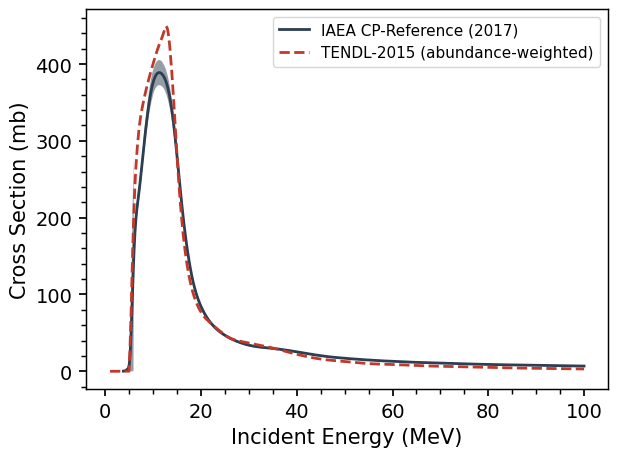
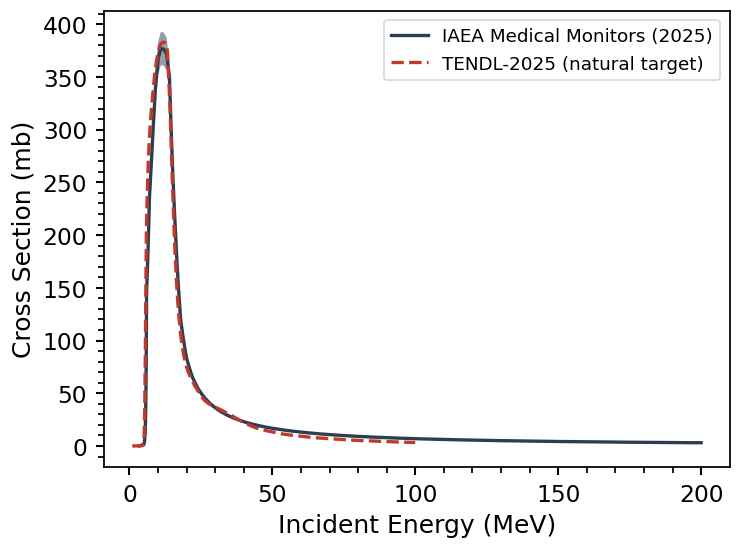
Documentation for the v2 data generation: a new Data Sources page recording per-database provenance, versions and acknowledgements (ENSDF/LiveChart, NUBASE2020/AME2020, ENDF/B-VIII.1, TENDL-2025 CC BY 4.0, IRDFF-II, IAEA monitors, paceENSDF); library names and versions updated across the methods tab
The authors acknowledge the assistance of Claude, an AI model provided by Anthropic, in the writing of this software.

Changed region(s): [[0.0, 0.0, 1.0, 0.9803], [0.3387, 0.7046, 0.3695, 0.7352]]

diff --git a/docs/source/data_sources.rst b/docs/source/data_sources.rst
@@ -1,0 +1,72 @@
+.. _data_sources:
+
+============
+Data Sources
+============
+
+Curie's nuclear data ship as pre-built databases, fetched on first use
+from versioned data releases and verified against published SHA256
+checksums.  Each database carries a generation stamp; this page records
+what the current generation (v2, built July 2026) contains and where
+every number comes from.  Connecting to data from an earlier generation
+logs a warning naming the ``ci.download(...)`` update command.
+
+.. list-table::
+   :header-rows: 1
+   :widths: 18 44 38
+
+   * - Database
+     - Contents and source
+     - Version
+   * - ``decay``
+     - Nuclear structure and decay data: level energies, half-lives,
+       branching ratios, and radiation (gamma, X-ray, electron, alpha,
+       beta) energies and intensities from ENSDF, retrieved through the
+       IAEA LiveChart of Nuclides interface; atomic masses and
+       half-life closures from AME2020/NUBASE2020; fission yields
+       (independent and cumulative) from the ENDF/B-VIII.1 MF8
+       sublibraries; gamma–gamma coincidence probabilities from
+       paceENSDF.
+     - ENSDF via LiveChart (mirrored 2026-07); NUBASE2020/AME2020;
+       ENDF/B-VIII.1
+   * - ``endf``
+     - Exclusive-channel neutron cross sections, reconstructed from the
+       ENDF/B-VIII.1 neutron sublibrary (resonance reconstruction with
+       NJOY2016 RECONR at a 0.5 % linearization tolerance).
+     - ENDF/B-VIII.1 (2024)
+   * - ``tendl``, ``tendl_n/p/d/a``
+     - TENDL exclusive-channel (neutron) and residual-product (n, p, d,
+       alpha) cross sections, from the TALYS-computed TENDL-2025 tables.
+       Targets are curated to the naturally occurring nuclides and
+       states with half-lives of at least one year; natural-element
+       targets are abundance-weighted sums of the isotopic tables.  The
+       proton library's Nb targets are carried from TENDL-2023 ENDF-6
+       files (no public host serves TENDL-2025 proton Nb).
+     - TENDL-2025 (TALYS-2.1), CC BY 4.0, from
+       https://tendl.imperial.ac.uk
+   * - ``irdff``
+     - The IRDFF-II neutron metrology (dosimetry) standard, with
+       uncertainties, from the IAEA's tabulated distribution.
+     - IRDFF-II (2020)
+   * - ``iaea``
+     - IAEA recommended charged-particle monitor reactions and medical
+       isotope production cross sections, with uncertainties.
+     - IAEA re-evaluation, site as of 2026-07
+   * - ``ziegler``
+     - Charged-particle stopping-power parameters (Andersen–Ziegler
+       formulation), element densities, and NIST XCOM photon
+       mass-attenuation coefficients.
+     - carried over unchanged between data generations
+
+Acknowledgements and citations
+------------------------------
+
+Curie's decay data are extracted from ENSDF through the IAEA Nuclear
+Data Section's *LiveChart of Nuclides* API; the fission-yield and
+neutron cross-section data derive from ENDF/B-VIII.1 (National Nuclear
+Data Center, Brookhaven National Laboratory); TENDL-2025 is distributed
+under CC BY 4.0 by the TALYS team; IRDFF-II and the medical monitor
+evaluations are published by the IAEA Nuclear Data Section; coincidence
+data derive from paceENSDF.  Users publishing results that rest on a
+particular evaluation should cite that evaluation directly — the
+references collected in :ref:`methods` — in addition to Curie itself.

diff --git a/docs/source/methods.rst b/docs/source/methods.rst
@@ -501,16 +501,17 @@ The libraries
 
 Curie distributes cross sections from four evaluated libraries:
 
-================  ==========================  =========  ==============  =============
-Name              Evaluation                  Particles  Organization    Uncertainties
-================  ==========================  =========  ==============  =============
-``endf``          ENDF/B-VII.1 [ENDF]_        n          exclusive       no
-``tendl``         TENDL-2015 [TENDL]_         n          exclusive       no
-``tendl_n/p/d``   TENDL-2015 [TENDL]_         n, p, d    residual        no
-``irdff``         IRDFF-II [IRDFF]_           n          exclusive       yes
-``iaea``          IAEA CP-Reference           n, p, d,   residual        yes
-                  (2017) [IAEA]_              a, h, g
-================  ==========================  =========  ==============  =============
+=================  ==========================  =========  ==============  =============
+Name               Evaluation                  Particles  Organization    Uncertainties
+=================  ==========================  =========  ==============  =============
+``endf``           ENDF/B-VIII.1 [ENDF]_       n          exclusive       no
+``tendl``          TENDL-2025 [TENDL]_         n          exclusive       no
+``tendl_n/p/d/a``  TENDL-2025 [TENDL]_         n, p, d,   residual        no
+                                               a
+``irdff``          IRDFF-II [IRDFF]_           n          exclusive       yes
+``iaea``           IAEA Medical Monitors       n, p, d,   residual        yes
+                   (2025) [IAEA]_              a, h, g
+=================  ==========================  =========  ==============  =============
 
 An *exclusive* library indexes reactions by their outgoing channel —
 (n,2n), (n,p), (n,inl) (inelastic scattering) — while a
@@ -524,6 +525,12 @@ distinguish the two where both are useful).  IRDFF-II is a dosimetry
 standard: most of its entries are exclusive channels, with a few indexed
 by product.
 
+The TENDL residual-product libraries also carry *natural-element*
+targets (``natFe``, ``natTi``, ...): abundance-weighted sums of the
+isotopic tables, computed when the databases are built from the same
+decay-data generation's abundances.  Elements whose lightest isotopes
+TENDL does not evaluate (H, He, Li, Be) have no natural entry.
+
 Energies are in MeV and cross sections in mb throughout (converted on
 retrieval from any source library that uses eV and barns).  On
 retrieval, energy grids are sorted and exact duplicate points dropped;
@@ -535,13 +542,24 @@ artifact, so there they are removed.
 Interpolation and flux averages
 ~~~~~~~~~~~~~~~~~~~~~~~~~~~~~~~
 
-`Reaction.interpolate()` is piecewise-linear on the evaluated grid, with
-two exceptions: TENDL curves, which are smooth model calculations, are
-interpolated quadratically (from just below the reaction threshold, and
-falling back to linear for very short grids), and negative interpolants
-are clamped to zero.  **Outside the evaluated energy range the
-interpolated cross section is zero** — Curie never extrapolates
-evaluated data.
+`Reaction.interpolate()` selects its scheme per library, through the
+`Reaction.interp_config` parameter ``'interpolation'``.  The
+pointwise-linearized libraries (ENDF — reconstructed to a 0.5 %
+linearization tolerance — IRDFF and IAEA) default to ``'linear'``, the
+convention their tabulated grids are generated for.  The TENDL
+libraries, whose smooth model calculations sit on a coarse energy grid,
+default to ``'pchip-sqrt'``: monotone piecewise-cubic (PCHIP)
+interpolation carried out in :math:`\sqrt{E}`–:math:`\sqrt{\sigma}`
+space.  The monotone construction passes exactly through the evaluated
+points and cannot overshoot or ring between them (a conventional
+quadratic or cubic spline can, badly, across a sharp threshold rise),
+and the square-root energy axis linearizes the
+:math:`\sigma \propto \sqrt{E - E_{thr}}` turn-on just above
+threshold.  Interpolants are clamped non-negative, and below the
+reaction threshold the cross section is zero.  **Outside the evaluated
+energy range the interpolated cross section is zero** — Curie never
+extrapolates evaluated data.  Either scheme can be selected per
+reaction: ``rx.interpolate(E, interpolation='linear')``.
 
 Flux integrals treat the energy points as bin centers, with bin edges at
 the midpoints between them; the first and last points take the full
@@ -688,18 +706,21 @@ and verified against published SHA256 checksums (see
 :ref:`quickinstall`); the large cross-section libraries are fetched in
 per-target pieces.  The reaction libraries are described in
 :ref:`methods_reaction_data`.  The decay data (half-lives, branching
-ratios, emission energies and intensities) are compiled from NuDat 2.0,
-ENDF/B-VII.0 and the nuclear wallet cards; photon attenuation
+ratios, emission energies and intensities) are compiled from ENSDF via
+the IAEA LiveChart interface, with NUBASE2020/AME2020 masses and
+half-life closures and ENDF/B-VIII.1 fission yields (see
+:ref:`data_sources` for full provenance); photon attenuation
 coefficients derive from the NIST XCOM tabulations; charged-particle
 stopping powers use the Andersen–Ziegler formulation.  Gamma-ray
 energies are in keV in the spectroscopy classes, and every half-life is
 in seconds unless a unit argument says otherwise.
 
-.. [ENDF] M.B. Chadwick et al., "ENDF/B-VII.1 Nuclear Data for Science
-   and Technology", *Nucl. Data Sheets* **112** (2011) 2887.
+.. [ENDF] "ENDF/B-VIII.1", National Nuclear Data Center, Brookhaven
+   National Laboratory (2024), https://www.nndc.bnl.gov/endf-b8.1/.
 
 .. [TENDL] A.J. Koning and D. Rochman, "Modern Nuclear Data Evaluation
-   with the TALYS Code System", *Nucl. Data Sheets* **113** (2012) 2841.
+   with the TALYS Code System", *Nucl. Data Sheets* **113** (2012) 2841;
+   TENDL-2025 files from https://tendl.imperial.ac.uk (CC BY 4.0).
 
 .. [IRDFF] A. Trkov et al., "IRDFF-II: A New Neutron Metrology Library",
    *Nucl. Data Sheets* **163** (2020) 1.

diff --git a/docs/source/usersguide/reactions_examples.rst b/docs/source/usersguide/reactions_examples.rst
@@ -36,16 +36,24 @@ For a proton spectrum centered at 20 MeV::
 	>>> eng = np.linspace(10, 30, 50)
 	>>> phi = np.exp(-0.5*((eng - 20)/3.5)**2)
 	>>> print(rx.average(eng, phi, unc=True))
-	(116.4..., 4.8...)
+	(115.2..., 5.2...)
 
 Natural vs. isotopic targets
 ----------------------------
 
-The TENDL-2015 residual-product library also carries this reaction — but
-only for *isotopic* targets; it has no natural-element entries.  A
-natural-target cross section is the abundance-weighted sum over the
-stable isotopes.  ``ci.Element('Ti').abundances`` provides exactly what
-the sum needs: a table of the stable isotopes with their percent
+The TENDL-2025 residual-product libraries carry this reaction for the
+natural target directly — ``natTI(p,x)48V`` works there just as it does
+in the IAEA library.  The natural-element entries are abundance-weighted
+sums of the isotopic tables, computed when the databases are built::
+
+	r_nat = ci.Reaction('natTi(p,x)48Vg', 'tendl_p')
+
+(The explicit ``g`` on the product picks the ground state — leaving it
+off works, but prints the ground-state-assumed warning.)
+
+The weighted sum is also easy to carry out by hand, which shows exactly
+what the natural entry *is*.  ``ci.Element('Ti').abundances`` provides
+the table the sum needs — the stable isotopes with their percent
 abundances (columns ``isotope`` and ``abundance``)::
 
 	el = ci.Element('Ti')
@@ -59,24 +67,22 @@ abundances (columns ``isotope`` and ``abundance``)::
 			continue      # this isotope has no route to 48V
 		xs_nat += 1E-2*row['abundance']*r.interpolate(eng)
 
-(The explicit ``g`` on the product picks the ground state — leaving it
-off works, but prints the ground-state-assumed warning for every
-isotope.)
-
 The ``try``/``except`` is doing real physics: :sup:`46`\ Ti + p has only
 47 nucleons, so it cannot make :sup:`48`\ V at any energy, and TENDL has
-no such entry.  Overlaying the weighted sum on the IAEA evaluation::
+no such entry.  Overlaying the natural-target entry on the IAEA
+evaluation::
 
 	f, ax = rx.plot(return_plot=True, label='library')
-	ax.plot(eng, xs_nat, ls='--', label='TENDL-2015 (abundance-weighted)')
+	ax.plot(eng, r_nat.interpolate(eng), ls='--', label='TENDL-2025 (natural target)')
 	ax.legend()
 
 .. figure:: ../images/ti48v_monitor.png
    :width: 80%
    :align: center
 
-The two agree in shape but differ by ~15% at the peak.  That is typical,
-and it reflects what each library *is*: the IAEA curve is an evaluation
+The two agree in shape, and for this reaction within ~1% at the peak —
+closer than is typical.  The distinction still matters, and it reflects
+what each library *is*: the IAEA curve is an evaluation
 of decades of monitor-foil measurements; the TENDL curve comes from
 nuclear-model (TALYS) calculations, whose strength is covering every
 reaction — including ones never measured — rather than pinpoint accuracy
@@ -115,7 +121,7 @@ Neutron libraries and the 20 MeV cutoff
 ---------------------------------------
 
 The same look-before-you-use advice applies to energy grids.  Most
-ENDF/B-VII.1 neutron evaluations stop at 20 MeV; IRDFF-II extends its
+ENDF/B-VIII.1 neutron evaluations stop at 20 MeV; IRDFF-II extends its
 dosimetry reactions to 60 MeV::
 
 	r1 = ci.Reaction('90ZR(n,2n)', 'irdff')

diff --git a/docs/source/usersguide/reactions_howto.rst b/docs/source/usersguide/reactions_howto.rst
@@ -45,10 +45,11 @@ priority order and keeps the first one that carries the reaction:
 ======================  ====================================================
 Incident particle       Priority order
 ======================  ====================================================
-neutron                 IRDFF-II -> ENDF/B-VII.1 -> IAEA -> TENDL-2015 ->
-                        TENDL-2015 (residual product)
-proton, deuteron        IAEA -> TENDL-2015 (residual product)
-alpha, helion, photon   IAEA
+neutron                 IRDFF-II -> ENDF/B-VIII.1 -> IAEA -> TENDL-2025 ->
+                        TENDL-2025 (residual product)
+proton, deuteron,       IAEA -> TENDL-2025 (residual product)
+alpha
+helion, photon          IAEA
 ======================  ====================================================
 
 The order reflects evaluation care: dosimetry and monitor standards
@@ -97,8 +98,8 @@ nucleus — for ENDF that includes totals, elastic scattering and
 level-by-level inelastic channels, not just activation products.
 
 Library names are ``'endf'``, ``'tendl'``, ``'irdff'``, ``'iaea'``, and
-``'tendl_n'``/``'tendl_p'``/``'tendl_d'`` for the residual-product
-libraries.  ``search`` returns reaction names ready to pass to
+``'tendl_n'``/``'tendl_p'``/``'tendl_d'``/``'tendl_a'`` for the
+residual-product libraries.  ``search`` returns reaction names ready to pass to
 `Reaction`.
 
 Values on your energy grid
@@ -110,7 +111,15 @@ it, and ``rx.interpolate_unc(energy)`` its uncertainty::
 	rx = ci.Reaction('115IN(n,g)', 'irdff')
 	print(rx.interpolate([0.5, 1.0, 5.0]))       # mb, at 0.5, 1 and 5 MeV
 
-Interpolation is linear (quadratic for the smooth TENDL curves).  One
+Interpolation is linear for the pointwise-linearized libraries and
+monotone PCHIP in sqrt(E)-sqrt(sigma) space for the smooth TENDL curves
+(exact through the evaluated points, no overshoot at thresholds); either
+scheme can be selected per reaction::
+
+	rx.interpolate(energy, interpolation='linear')   # kept for later calls
+	rx.interp_config = {'interpolation': 'pchip-sqrt'}
+
+One
 convention to know: **outside the library's evaluated energy range the
 interpolated cross section is zero** — Curie never extrapolates.  Check
 ``rx.eng.min()`` and ``rx.eng.max()`` when working near the edges of a

diff --git a/docs/source/usersguide/reactions.rst b/docs/source/usersguide/reactions.rst
@@ -51,8 +51,8 @@ raw experimental data points (EXFOR, the international compilation of
 such measurements, is not included).  Each library has a
 scope and a character: the IAEA library is a set of precisely evaluated
 monitor (beam-normalization) reactions with uncertainties; IRDFF-II is a
-neutron-dosimetry standard, also with uncertainties; ENDF/B-VII.1 is the
-general-purpose neutron evaluation; and the TENDL-2015 libraries are
+neutron-dosimetry standard, also with uncertainties; ENDF/B-VIII.1 is the
+general-purpose neutron evaluation; and the TENDL-2025 libraries are
 theory-driven (TALYS-based) evaluations whose strength is complete
 coverage — nearly every target and product, including reactions no one
 has measured.  Where they overlap, they will not agree perfectly; which

diff --git a/docs/source/usersguide/reactions_troubleshooting.rst b/docs/source/usersguide/reactions_troubleshooting.rst
@@ -55,8 +55,8 @@ uncertainties even though you thought it should.
 takes the first library in the priority list (see
 :ref:`reactions_howto`) that contains a unique match.  Two consequences
 are easy to miss.  First, similar-looking reactions can come from
-different libraries — ``'226RA(n,2n)'`` resolves to ENDF/B-VII.1, but
-the residual-product form ``'226RA(n,x)225RA'`` resolves to TENDL-2015 —
+different libraries — ``'226RA(n,2n)'`` resolves to ENDF/B-VIII.1, but
+the residual-product form ``'226RA(n,x)225RA'`` resolves to TENDL-2025 —
 with different grids, values and uncertainty availability.  Second, the
 resolution can change over time, as data libraries are updated or the
 priority evolves between Curie versions.

diff --git a/docs/source/usersguide/isotopes.rst b/docs/source/usersguide/isotopes.rst
@@ -45,7 +45,8 @@ See the :ref:`isotopes_howto` for each task in detail, the
 **Uses and limitations.**  `Isotope` serves quick lookups (a half-life in sensible units, a table of
 gamma lines above some intensity) and provides the decay data that
 `Spectrum`, `Calibration` and `DecayChain` use internally.  The decay data
-are compiled from NuDat 2.0, ENDF/B-VII.0 and the nuclear wallet cards.
+are compiled from ENSDF (via the IAEA LiveChart interface), with
+NUBASE2020/AME2020 closures and ENDF/B-VIII.1 fission yields.
 
 `DecayChain` solves the Bateman equations exactly (see
 :ref:`methods_decay_chains`), including chains with branching and

diff --git a/docs/source/index.rst b/docs/source/index.rst
@@ -70,5 +70,6 @@ experimental nuclear data* (2019–), https://jtmorrell.github.io/curie/.
    beginners_guide
    usersguide/index
    methods
+   data_sources
    api/index
    license